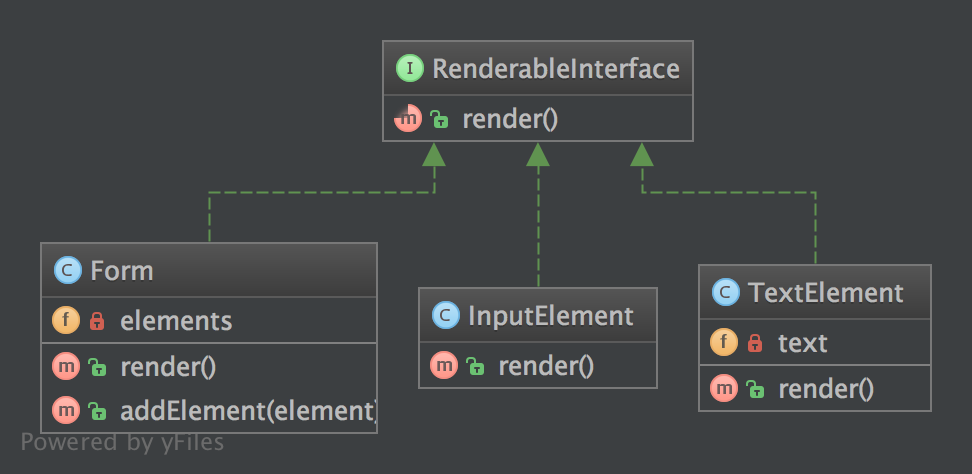
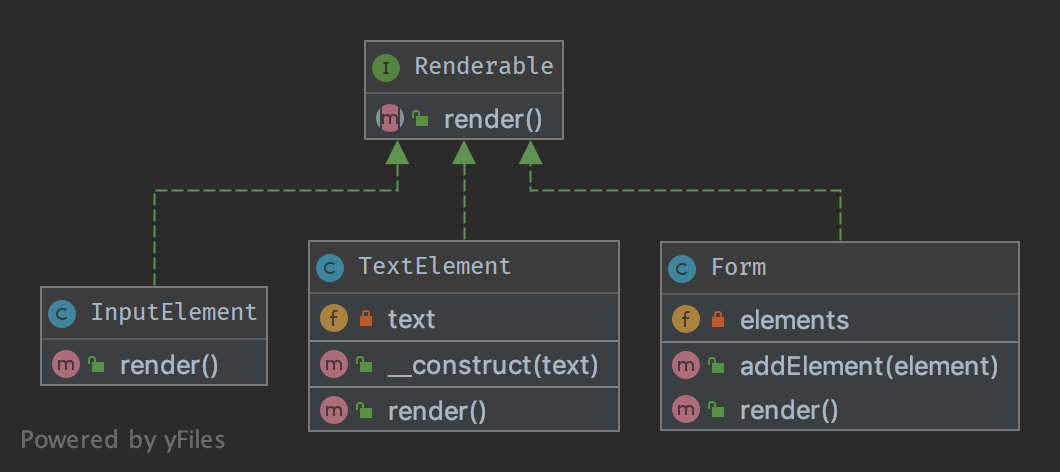
remove Interface-Suffix

Changed region(s): [[0.0, 0.5042, 0.9877, 0.9492], [0.1543, 0.0593, 0.7407, 0.4153], [0.4938, 0.3856, 0.8333, 0.4153]]

diff --git a/Structural/Composite/Form.php b/Structural/Composite/Form.php
@@ -7,10 +7,10 @@ namespace DesignPatterns\Structural\Composite;
  * The composite node MUST extend the component contract. This is mandatory for building
  * a tree of components.
  */
-class Form implements RenderableInterface
+class Form implements Renderable
 {
     /**
-     * @var RenderableInterface[]
+     * @var Renderable[]
      */
     private $elements;
 
@@ -36,9 +36,9 @@ class Form implements RenderableInterface
     }
 
     /**
-     * @param RenderableInterface $element
+     * @param Renderable $element
      */
-    public function addElement(RenderableInterface $element)
+    public function addElement(Renderable $element)
     {
         $this->elements[] = $element;
     }

diff --git a/Structural/Composite/InputElement.php b/Structural/Composite/InputElement.php
@@ -3,7 +3,7 @@ declare(strict_types=1);
 
 namespace DesignPatterns\Structural\Composite;
 
-class InputElement implements RenderableInterface
+class InputElement implements Renderable
 {
     public function render(): string
     {

diff --git a/Structural/Composite/TextElement.php b/Structural/Composite/TextElement.php
@@ -3,7 +3,7 @@ declare(strict_types=1);
 
 namespace DesignPatterns\Structural\Composite;
 
-class TextElement implements RenderableInterface
+class TextElement implements Renderable
 {
     /**
      * @var string

diff --git a/Structural/Composite/Renderable.php b/Structural/Composite/Renderable.php
@@ -3,7 +3,7 @@ declare(strict_types=1);
 
 namespace DesignPatterns\Structural\Composite;
 
-interface RenderableInterface
+interface Renderable
 {
     public function render(): string;
 }

diff --git a/Structural/Composite/README.rst b/Structural/Composite/README.rst
@@ -26,9 +26,9 @@ Code
 
 You can also find this code on `GitHub`_
 
-RenderableInterface.php
+Renderable.php
 
-.. literalinclude:: RenderableInterface.php
+.. literalinclude:: Renderable.php
    :language: php
    :linenos:
 
